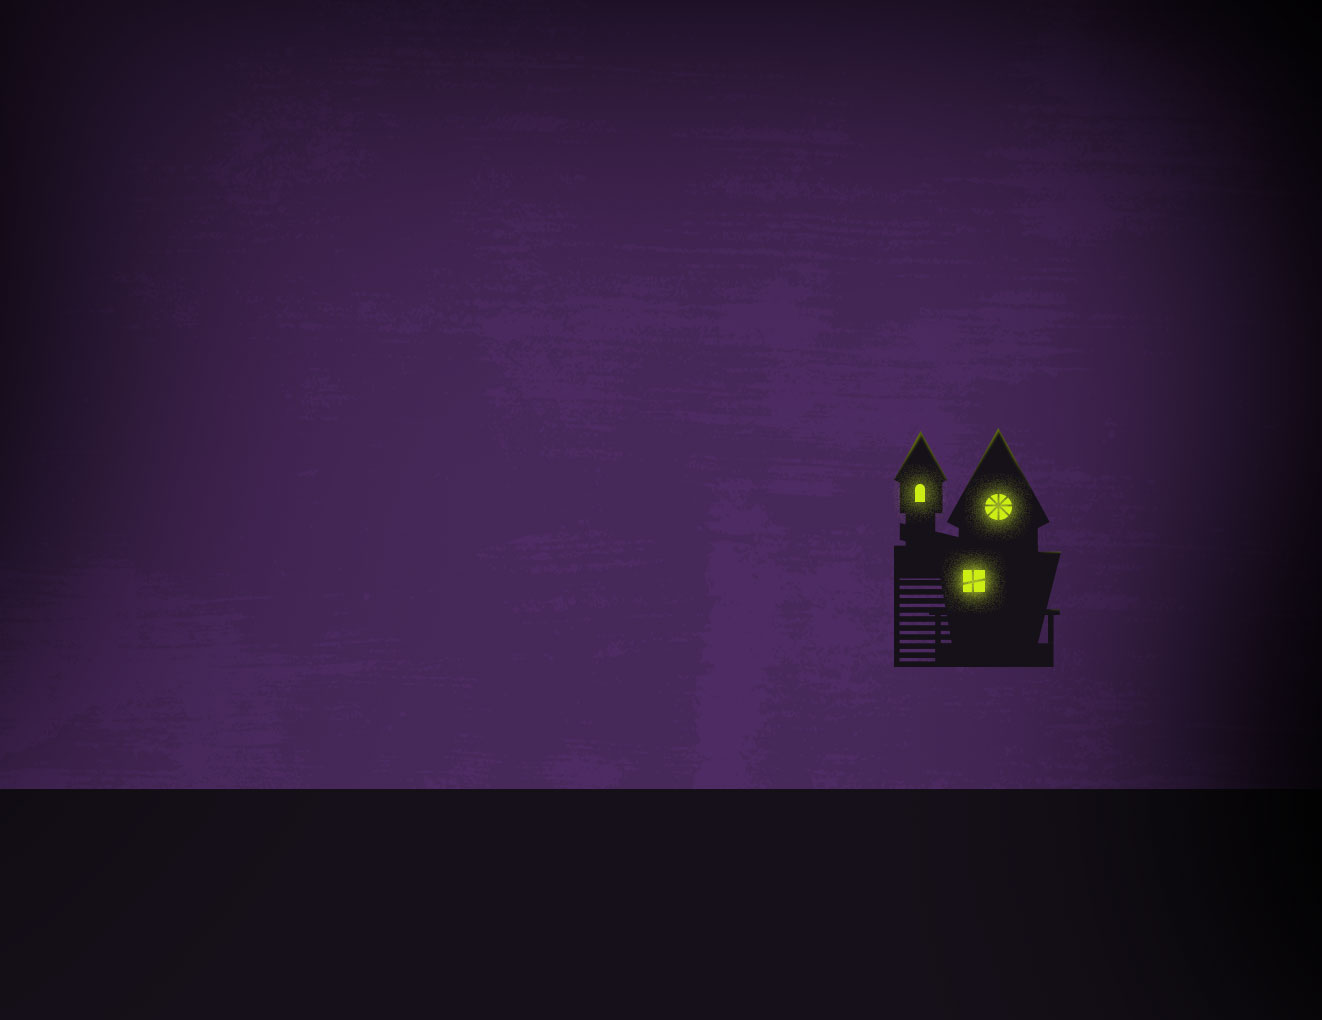
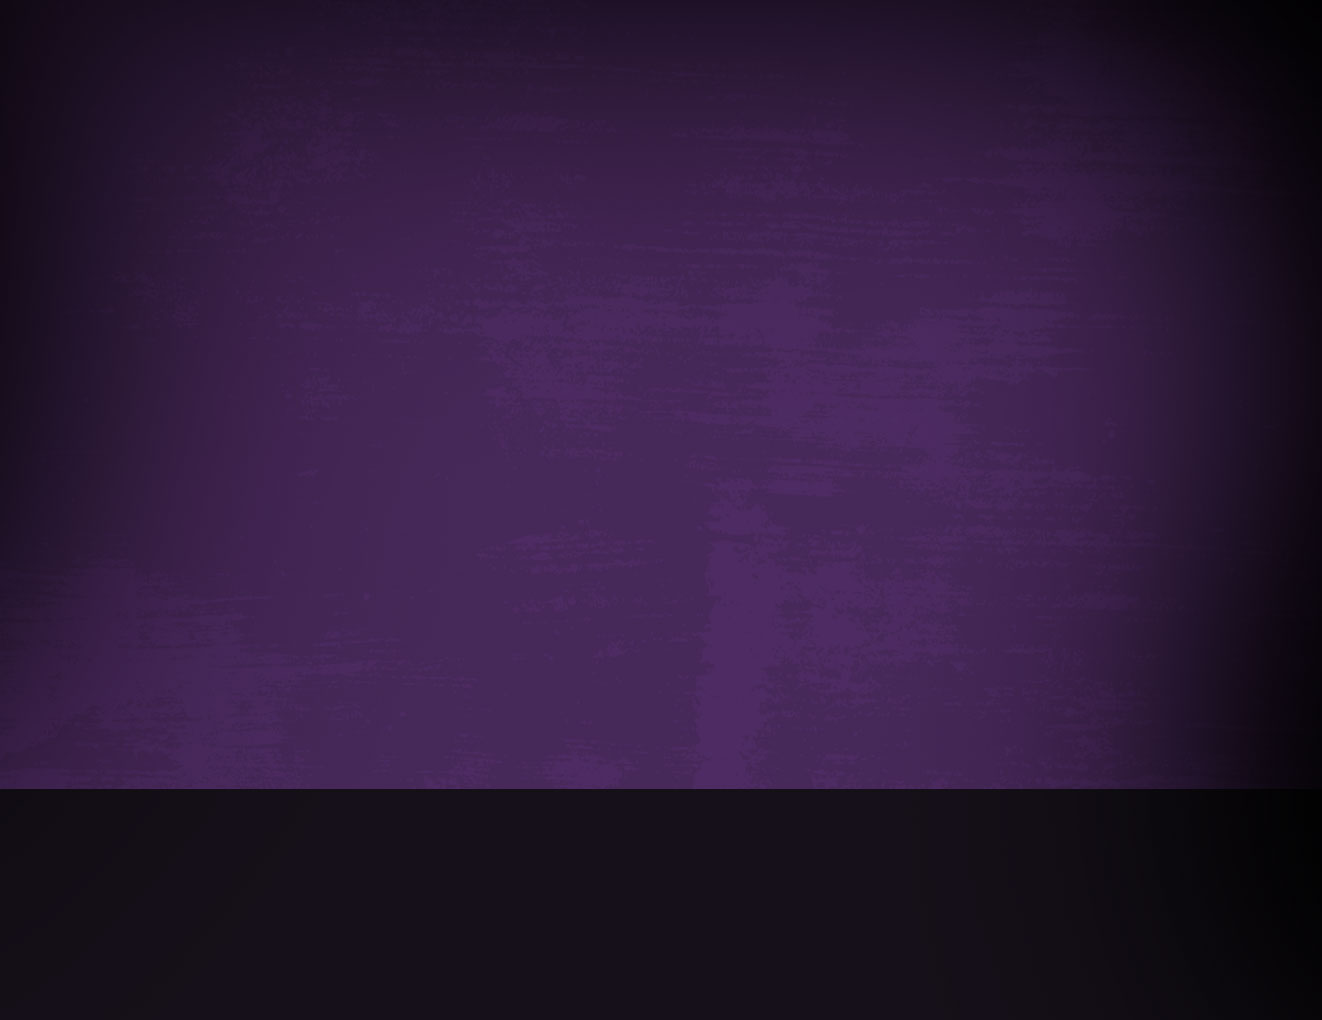
Update layers

Changed region(s): [[0.6513, 0.4255, 0.8064, 0.6686]]

diff --git a/public/javascripts/halloween/templates/scene.html b/public/javascripts/halloween/templates/scene.html
@@ -1,20 +1,27 @@
+<ul class="scene" data-limit-y="1">
+    <li class="layer" data-depth="0.02"><img src="/images/halloween/background.jpg"></li>
+</ul>
+
 <ul class="scene">
-	<li class="layer" data-depth="0"><img src="/images/halloween/background.jpg"></li>
+    <li class="layer" data-depth="0"><img src="/images/halloween/house.png"></li>
    	<li class="layer" data-depth="0.05">
 		<img src="/images/halloween/witch_moon.png">
 		<img data-zoom="2.7" data-hue="rgba(200, 239, 23, 0.3)" class="mask" src="/images/halloween/moon_mask.png"/>
 		<canvas class="moon__canvas" width="222" height="196"></canvas>
 	</li>
 	<li class="layer" data-depth="0.20"><img src="/images/halloween/hill.png"></li>
-	<li class="layer" data-depth="0.15"><img src="/images/halloween/trees.png"></li>
-	<li class="layer" data-depth="0.5">
+	<li class="layer" data-depth="0.6">
 		<img src="/images/halloween/hill_front.png">
        	<img data-zoom="1.9" data-hue="rgba(220, 75, 0, 0.3)" class="mask" src="/images/halloween/pumpkin_mask.png" />
     	<canvas class="pumpkin__canvas" width="175" height="181"></canvas>
 	</li>
-	<li class="layer layer--ghoul" data-depth="0.80">
+	<li class="layer layer--ghoul" data-depth="1.2">
 		<img src="/images/halloween/ghoul.png">
 		<img data-zoom="2.7" data-hue="rgba(30, 200, 60, 0.2)" class="mask" src="/images/halloween/ghoul_mask.png"/>
 		<canvas class="ghoul__canvas" width="125" height="160"></canvas>
 	</li>
+</ul>
+
+<ul class="scene">
+   	<li class="layer" data-depth="0.15"><img src="/images/halloween/trees.png"></li>
 </ul>

diff --git a/public/css/app.css b/public/css/app.css
@@ -160,13 +160,13 @@ a.actionbar__logo {
   top: 0;
 }
 
-#scene {
-  background: #151018;
+.scene {
+  position: absolute;
+  top: 0;
+  left: 0;
   list-style: none;
   margin: 0;
   padding: 0;
-  height: 100%;
-  width: 100%;
 }
 
 .layer {
